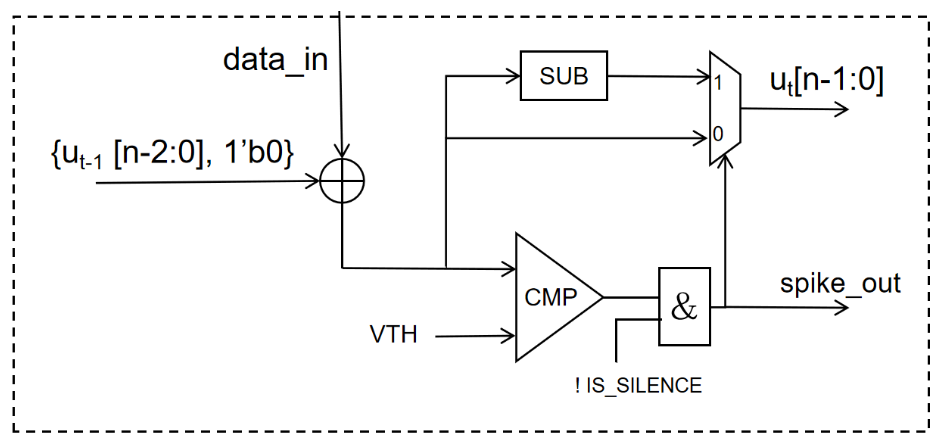
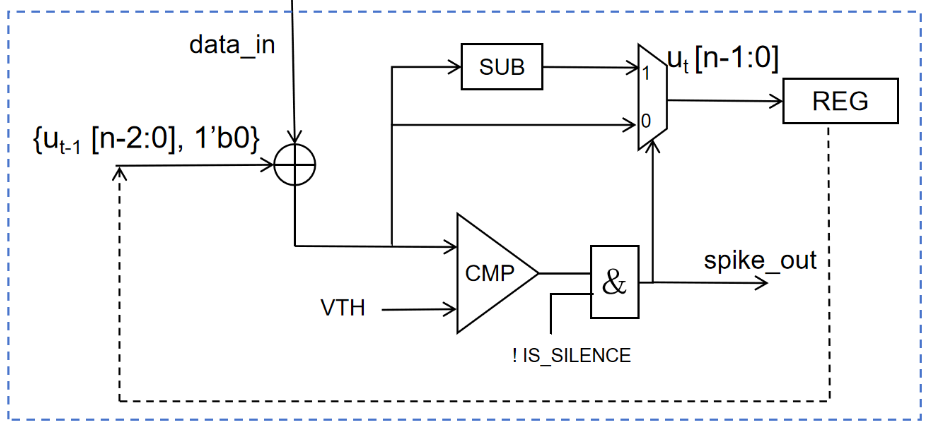
rebuttal

Changed region(s): [[0.0, 0.0, 0.9978, 1.0]]

diff --git a/README.md b/README.md
@@ -1,0 +1,9 @@
+### 设计说明
+
+<img src="./reference_design.png">
+
+In the figure above, we illustrate each component from left to right:  
+- The leftmost part is the _adder_, which takes the shifted membrane potential and the current input as inputs.  
+- The _comparator_ checks whether the absolute value of the updated membrane potential exceeds the positive spike threshold.  
+- The _spike generation_ is determined by the comparison result and the silent period control signal.  
+- The _shift operation_ is implemented purely through wiring, represented by dashed arrows pointing from the register to the input.
